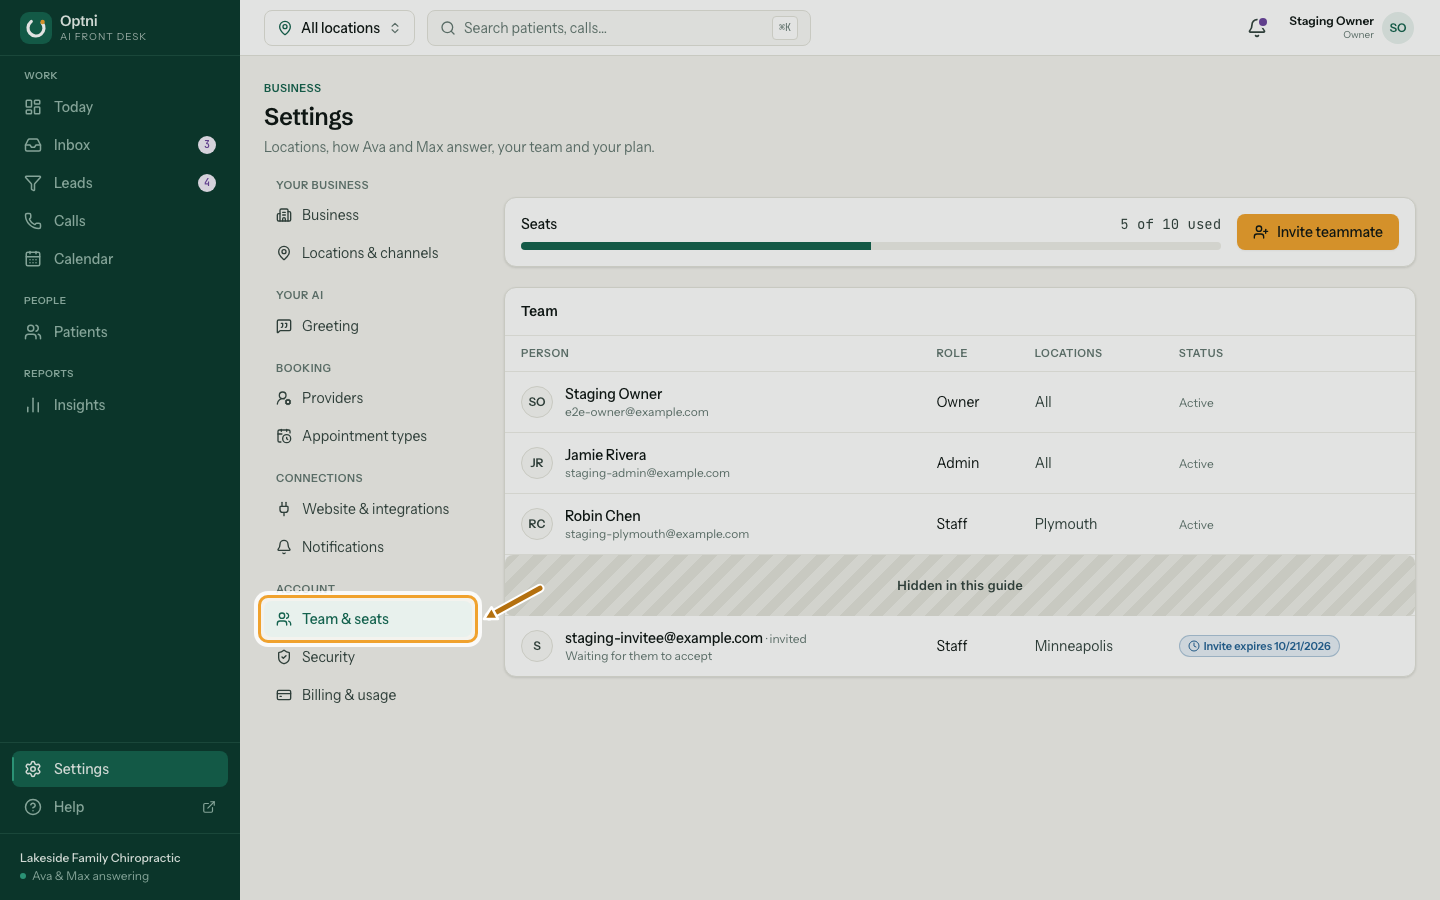
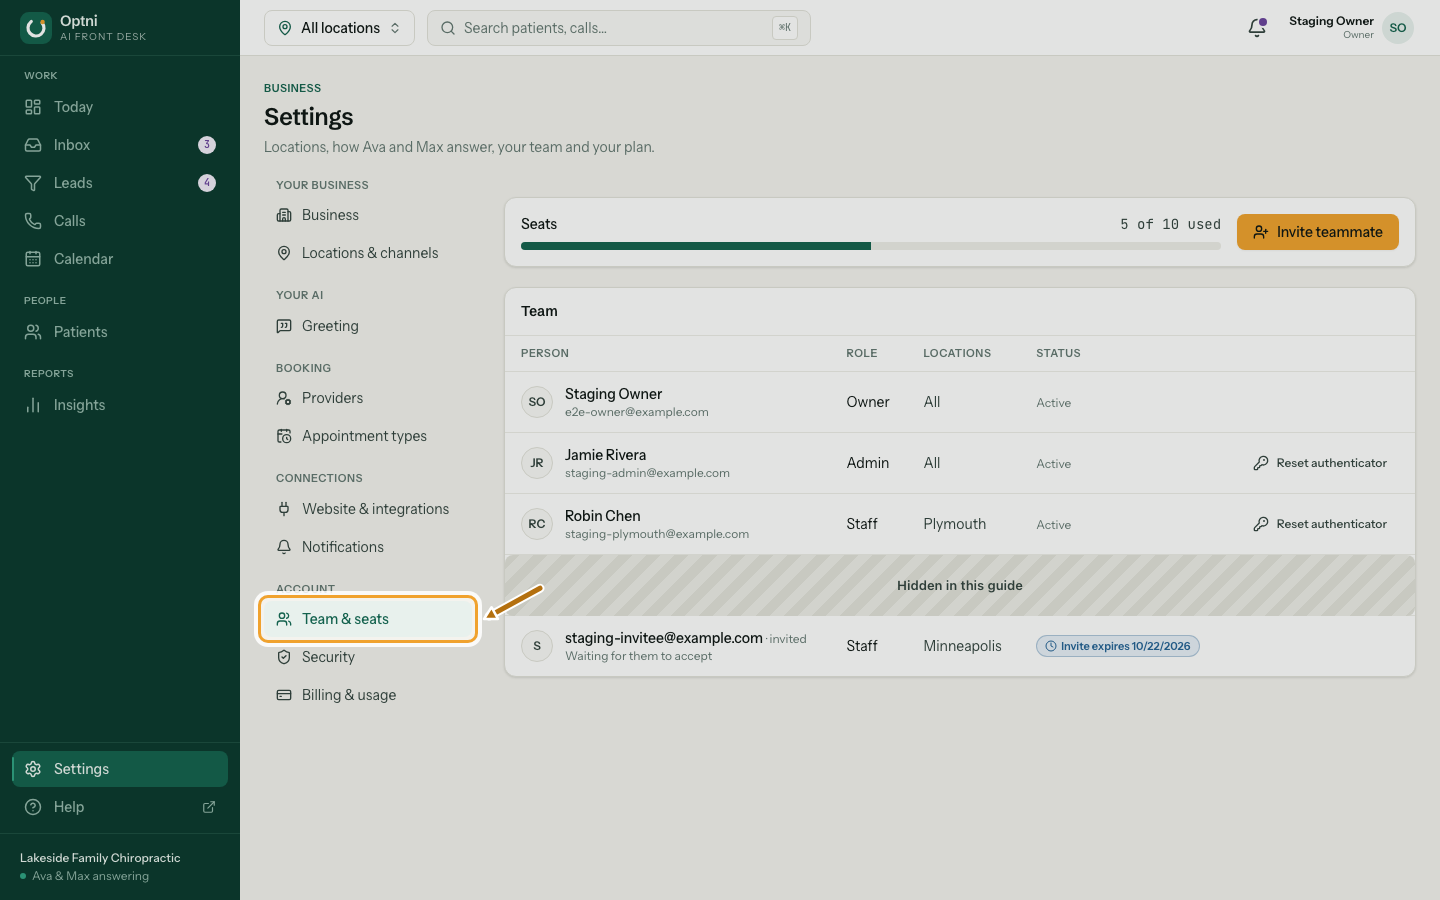
Guides: two-step setup without recovery codes; Lost your phone? (owner reset)
- recovery-codes (slug kept) is now "Lost your phone?": the owner resets a
  teammate's authenticator from Settings → Team & seats (confirm dialog), the
  Optni team helps if the owner is locked out, backup codes are optional under
  Security → Advanced. No download/print/save instructions anywhere.
- sign-in: drop the save-codes step; Confirm; "Can't scan? Enter a key instead";
  "Use a backup code" + the Lost your phone line.
- get-started, invite-your-team, troubleshooting, mobile-app: no more
  "save your recovery codes".
- capture/sessions: enrolment is key → "Enter the 6-digit code from your app"
  → Confirm → dashboard (no code list/checkbox/continue).
- Recaptured sign-in, recovery-codes, get-started, mobile-app, invite-your-team
  against optni-web 08d1831 / optni-app 615f731 / optni-api 5fed6fd.

diff --git a/src/guides/content/recovery-codes.ts b/src/guides/content/recovery-codes.ts
@@ -1,59 +1,59 @@
 import type { Guide } from "../types.ts";
 import { button, inDialog, settingsTab } from "../targets.ts";
 
+// Optni's founder co-owns the synthetic test business (PLATFORM.md §12.4): his row is covered.
+const founderRow = { role: "row", name: /founder@optni\.ai|Optni Founder/ } as const;
+
 export default {
   slug: "recovery-codes",
-  title: "Recovery codes",
-  description: "Make a new set of recovery codes, and use one to sign in when you don't have your authenticator.",
+  title: "Lost your phone?",
+  description: "Get back in when you lose the phone with your authenticator: an owner resets it from Settings → Team & seats, and the Optni team can help if the owner is locked out.",
   category: "start",
   order: 2,
-  roles: "Owners and admins (anyone with two-step verification on).",
-  intro: "Recovery codes get you in when your phone is lost or reset. You get 10 when you set up your authenticator. Each works once.",
+  roles: "Owners reset other teammates. Everyone with two-step verification can read this.",
+  intro:
+    "If you lose or replace the phone with your authenticator app, you don't need to keep anything safe in advance. Your account owner resets your authenticator, and you set it up again the next time you sign in.",
   steps: [
     {
-      id: "open-security",
-      title: "Go to Settings → Security.",
-      alt: "Settings with the Security tab ringed.",
-      shot: { app: "web", path: "/settings/security", highlight: settingsTab("Security") },
+      id: "open-team",
+      title: "As the owner, go to Settings → Team & seats.",
+      alt: "Settings with the Team & seats tab ringed.",
+      shot: { app: "web", path: "/settings/team", mask: [founderRow], highlight: settingsTab("Team & seats") },
     },
     {
-      id: "new-codes",
-      title: "Select New recovery codes.",
-      body: "Making new codes switches off all of your old ones.",
-      alt: "The Two-step verification card with the New recovery codes button ringed.",
-      shot: { app: "web", path: "/settings/security", highlight: button("New recovery codes") },
+      id: "reset",
+      title: "Select Reset authenticator on your teammate's row.",
+      body: "Only owners see this, and only for other people. Your own authenticator is changed in Settings → Security with Set up again.",
+      alt: "The team list with the Reset authenticator button on a teammate's row ringed.",
+      shot: { app: "web", path: "/settings/team", mask: [founderRow], highlight: button(/^Reset authenticator for /) },
     },
     {
       id: "confirm",
-      title: "Select Make new codes to confirm.",
-      alt: "A confirmation dialog warning that old codes stop working, with Make new codes ringed.",
-      shot: { app: "web", path: "/settings/security", actions: [{ do: "click", target: button("New recovery codes") }], highlight: inDialog(button("Make new codes")) },
-    },
-    {
-      id: "save",
-      title: "Copy or download the codes and keep them safe.",
-      body: "Store them in a password manager or print them. Don't keep them only on the phone that has your authenticator.",
-      alt: "Ten new recovery codes (hidden in this guide) with Copy codes and Download buttons.",
-      shot: {
-        app: "web",
-        path: "/settings/security",
-        actions: [{ do: "click", target: button("New recovery codes") }, { do: "click", target: inDialog(button("Make new codes")) }, { do: "waitFor", target: { role: "list", name: "Recovery codes" } }],
-        mask: [{ role: "list", name: "Recovery codes" }],
-        highlight: button("Copy codes"),
-      },
+      title: "Select Reset authenticator to confirm.",
+      body: "They're signed out everywhere. The next time they sign in, they scan a new QR code and type one code from their app.",
+      alt: "A confirmation dialog explaining the person will set up their authenticator again, with Reset authenticator ringed.",
+      shot: { app: "web", path: "/settings/team", mask: [founderRow], actions: [{ do: "click", target: button(/^Reset authenticator for /) }], highlight: inDialog(button("Reset authenticator", true)) },
     },
   ],
   sections: [
     {
-      heading: "Signing in with a recovery code",
+      heading: "If you're the one who lost your phone",
       bullets: [
-        "Enter your email and password as usual.",
-        "On the code step, select Use a recovery code instead and type one code.",
-        "That code is now used up. Set up your authenticator again in Settings → Security and make new codes.",
+        "Ask your account owner to reset your authenticator, then sign in and set it up on your new phone.",
+        "Still have your old phone? Go to Settings → Security and select Set up again. Your old app keeps working until you confirm a code from the new one.",
       ],
     },
-    { heading: "Lost your codes and your phone?", paragraphs: ["Ask the business owner, or contact Optni support. For your safety we confirm who you are before we reset two-step verification."] },
+    {
+      heading: "If the owner is locked out",
+      paragraphs: ["Contact the Optni team. For your safety we confirm who you are before we reset your authenticator."],
+    },
+    {
+      heading: "Backup codes are optional",
+      paragraphs: [
+        "Most people don't need them. If you want a way to sign in without your phone, open Settings → Security → Advanced: backup codes (optional) and select Make backup codes. Each code works once, and making new ones switches the old ones off. On the sign-in code step, select Use a backup code to use one.",
+      ],
+    },
   ],
-  related: ["sign-in", "reset-password"],
-  keywords: ["backup codes", "lost phone", "MFA", "2FA", "authenticator"],
+  related: ["sign-in", "invite-your-team", "reset-password"],
+  keywords: ["lost phone", "new phone", "reset authenticator", "backup codes", "recovery codes", "locked out", "MFA", "2FA", "authenticator"],
 } satisfies Guide;

diff --git a/src/guides/content/sign-in.ts b/src/guides/content/sign-in.ts
@@ -21,7 +21,7 @@ export default {
     {
       id: "scan-qr",
       title: "The first time, scan the QR code with your authenticator app.",
-      body: "Any authenticator app works: Google Authenticator, Microsoft Authenticator, 1Password or Authy. If you can't scan, select \"Can't scan? Enter this key instead\" and type the key into the app.",
+      body: "Any authenticator app works: Google Authenticator, Microsoft Authenticator, 1Password or Authy. If you can't scan, select \"Can't scan? Enter a key instead\" and type the key into the app.",
       alt: "The Set up your authenticator screen with a QR code (hidden in this guide).",
       shot: {
         app: "web",
@@ -34,8 +34,8 @@ export default {
     },
     {
       id: "enter-first-code",
-      title: "Type the 6-digit code the app shows, then select Verify and turn on.",
-      body: "Codes change every 30 seconds. If one fails, wait for the next and try again.",
+      title: "Type the 6-digit code the app shows, then select Confirm.",
+      body: "You go straight on to the dashboard. Codes change every 30 seconds. If one fails, wait for the next and try again.",
       alt: "The code field under the QR code, ringed.",
       shot: {
         app: "web",
@@ -43,21 +43,7 @@ export default {
         path: "/sign-in",
         actions: [{ do: "signIn", who: "admin" }, { do: "waitFor", target: { role: "heading", name: "Set up your authenticator" } }],
         mask: [{ role: "img", name: "QR code for your authenticator app" }],
-        highlight: label("Then enter the 6-digit code it shows"),
-      },
-    },
-    {
-      id: "save-codes",
-      title: "Save your 10 recovery codes, tick the box and continue.",
-      body: "Copy or download them and keep them somewhere safe, away from your phone. Each code works once. See Recovery codes for more.",
-      alt: "Ten recovery codes (hidden in this guide) with Copy and Download buttons and a confirmation checkbox.",
-      shot: {
-        app: "web",
-        as: "signed-out",
-        path: "/sign-in",
-        actions: [{ do: "signIn", who: "admin" }, { do: "waitFor", target: { role: "heading", name: "Set up your authenticator" } }, { do: "enrolMfa", who: "admin" }],
-        mask: [{ role: "list", name: "Recovery codes" }],
-        highlight: { role: "checkbox" },
+        highlight: label("Enter the 6-digit code from your app"),
       },
     },
     {
@@ -67,11 +53,11 @@ export default {
       shot: { app: "web", as: "signed-out", path: "/sign-in", actions: [{ do: "signIn", who: "owner" }, { do: "waitFor", target: label("6-digit code", true) }], highlight: label("6-digit code", true) },
     },
     {
-      id: "use-recovery",
-      title: "No phone? Select Use a recovery code instead.",
-      body: "Type one of your saved codes. Then set up your authenticator again in Settings → Security.",
-      alt: "The code step with the Use a recovery code instead link ringed.",
-      shot: { app: "web", as: "signed-out", path: "/sign-in", actions: [{ do: "signIn", who: "owner" }, { do: "waitFor", target: label("6-digit code", true) }], highlight: button("Use a recovery code instead") },
+      id: "lost-phone",
+      title: "Lost your phone? Ask your account owner to reset your authenticator.",
+      body: "You set it up again the next time you sign in. If you made backup codes, you can select Use a backup code instead. See Lost your phone? for more.",
+      alt: "The code step with the Lost your phone line and the Use a backup code link, the link ringed.",
+      shot: { app: "web", as: "signed-out", path: "/sign-in", actions: [{ do: "signIn", who: "owner" }, { do: "waitFor", target: label("6-digit code", true) }], highlight: button("Use a backup code") },
     },
   ],
   sections: [

diff --git a/capture/sessions.ts b/capture/sessions.ts
@@ -80,15 +80,12 @@ async function signInWeb(page: Page, who: Who) {
     const code = page.getByLabel("6-digit code", { exact: true });
     await enrol.or(code).waitFor();
     if (await enrol.isVisible()) {
-      await page.getByText("Can't scan? Enter this key instead").click();
+      await page.getByText("Can't scan? Enter a key instead").click();
       const secret = (await page.getByLabel("Setup key").textContent())!.replace(/\s/g, "");
       secrets.set(who, secret);
       saveSecrets();
-      await page.getByLabel("Then enter the 6-digit code it shows").fill(await freshTotp(who, secret));
-      await page.getByRole("button", { name: "Verify and turn on" }).click();
-      await page.getByRole("list", { name: "Recovery codes" }).waitFor();
-      await page.getByRole("checkbox").check();
-      await page.getByRole("button", { name: "Continue to the dashboard" }).click();
+      await page.getByLabel("Enter the 6-digit code from your app").fill(await freshTotp(who, secret));
+      await page.getByRole("button", { name: "Confirm", exact: true }).click();
     } else {
       await code.fill(await freshTotp(who, secrets.get(who)!));
       await page.getByRole("button", { name: "Verify" }).click();
@@ -107,13 +104,13 @@ export async function signInAction(page: Page, who: Who) {
   await page.waitForTimeout(800);
 }
 export async function enrolAction(page: Page, who: Who) {
-  await page.getByText("Can't scan? Enter this key instead").click();
+  await page.getByText("Can't scan? Enter a key instead").click();
   const secret = (await page.getByLabel("Setup key").textContent())!.replace(/\s/g, "");
   secrets.set(who, secret);
   saveSecrets();
-  await page.getByLabel("Then enter the 6-digit code it shows").fill(await freshTotp(who, secret));
-  await page.getByRole("button", { name: "Verify and turn on" }).click();
-  await page.getByRole("list", { name: "Recovery codes" }).waitFor();
+  await page.getByLabel("Enter the 6-digit code from your app").fill(await freshTotp(who, secret));
+  await page.getByRole("button", { name: "Confirm", exact: true }).click();
+  await page.getByRole("heading", { level: 1 }).filter({ hasText: /Good (morning|afternoon|evening)/ }).waitFor({ timeout: 30_000 });
 }
 
 const webStates = new Map<string, string>();

diff --git a/src/guides/content/troubleshooting.ts b/src/guides/content/troubleshooting.ts
@@ -13,7 +13,7 @@ export default {
       heading: "Signing in",
       bullets: [
         "\"That code didn't work\" — codes change every 30 seconds. Wait for a new one. Check your phone's clock is set automatically.",
-        "Lost your phone — use a recovery code, then set up the authenticator again in Settings → Security.",
+        "Lost your phone — ask your account owner to reset your authenticator (Settings → Team & seats), then set it up again when you sign in. Owners who are locked out can contact Optni.",
         "\"Too many requests\" — wait a few minutes before trying again.",
         "Invite link doesn't work — it has expired (after 7 days) or was used. Ask for a new invite.",
       ],

diff --git a/src/guides/content/get-started.ts b/src/guides/content/get-started.ts
@@ -48,7 +48,7 @@ export default {
     {
       id: "authenticator",
       title: "Set up your authenticator app.",
-      body: "Owners confirm every sign-in with a code from their phone, because your account can see what callers tell your AI. Scan the QR code, type the code it shows, then save your recovery codes.",
+      body: "Owners confirm every sign-in with a code from their phone, because your account can see what callers tell your AI. Scan the QR code, type the code it shows, then select Confirm.",
       alt: "The Protect your account screen with a QR code (hidden in this guide).",
       shot: {
         app: "web-sample",

diff --git a/src/guides/content/invite-your-team.ts b/src/guides/content/invite-your-team.ts
@@ -86,7 +86,7 @@ export default {
       heading: "When they accept",
       bullets: [
         "The link opens a page where they set their name and a password of at least 12 characters.",
-        "Admins then set up two-step verification and save their recovery codes.",
+        "Admins then set up two-step verification: scan a QR code and type one code from their app.",
         "If the link has expired or was already used, send a new invite.",
       ],
     },

diff --git a/src/guides/content/mobile-app.ts b/src/guides/content/mobile-app.ts
@@ -53,6 +53,7 @@ export default {
       heading: "Good to know",
       bullets: [
         "Owners and admins enter their 6-digit code after the password, like on the web.",
+        "New phone? Open More → Security and tap Set up again. Lost your phone? Ask your account owner to reset your authenticator.",
         "Staff only see their own locations.",
       ],
     },

diff --git a/README.md b/README.md
@@ -66,7 +66,7 @@ by the script, never baked into the app.
   (and the seeded admin/staff), **never** as `founder@optni.ai` or into the real "Optni AI" business.
 - Before every screenshot the page is scanned: any email not at `example.com`, any phone number
   outside 555-01xx, intake keys (`oi_live_…`), JWTs and authenticator secrets are covered. If anything
-  is left uncovered the step **fails**. QR codes, recovery codes and new intake keys are covered
+  is left uncovered the step **fails**. QR codes, setup keys and new intake keys are covered
   explicitly in their recipes. A second pass by a person looks at every image before commit.
 - Logins, sessions and authenticator secrets of the throwaway accounts live in `.capture/` (git-ignored)
   and die with the database.
